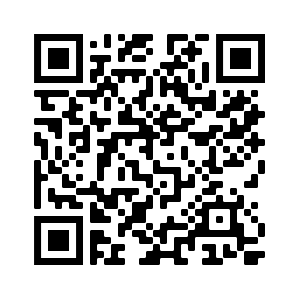
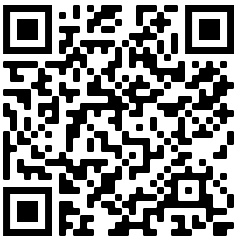
1

diff --git a/regras.html b/regras.html
@@ -8,80 +8,89 @@
     <link rel="stylesheet" href="Estilo/regras.css">
 </head>
 <body>
-    <a href="tabela.html">Voltar para a tabela</a>
-    <h1>Regras do bolão da Copa do Mundo de 2022 - Primeira fase:</h1>
-    <h2>O presente bolão apresenta as seguintes regras: </h2>
-    <ol>
-        <li>Pontuação relativa aos resultados dos jogos:
-            <ul>
-                <li> 20 pontos - Para o participante que acertar o placar exato em jogos <strong>com seis ou mais gols</strong> . Exemplo: para Itála 6 X 1 Chile, apenas o palpite Itália 6 X 1 Chile resulta em vinte pontos;
+    <header>
+        <a href="tabela.html">Voltar para a tabela</a>
+        <h1>Regras do bolão da Copa do Mundo de 2022 - Primeira fase:</h1>
+    </header>
+    <main>
+        <section>
+            <ol>
+                <li>Pontuação relativa aos resultados dos jogos:
                     <ul>
-                        <li>Exemplo de placares que a atendem esse quesito: 6 X 0 ou mais, 5 X 1 ou mais, 4 X 2 ou mais, qualquer empate igual ou superior a 3 X 3, etc.
-
+                        <li> <strong>20 pontos -</strong>  Para o participante que acertar o placar exato em jogos <strong>com seis gols ou mais</strong>. Exemplo: para Itália 6 X 1 Chile, apenas o palpite Itália 6 X 1 Chile resulta em vinte pontos;
+                            <ul>
+                                <li>Exemplo de placares que a atendem esse quesito: 6 X 0 ou mais, 5 X 1 ou mais, 4 X 2 ou mais, qualquer empate igual ou superior a 3 X 3, etc.
+        
+                                </li>
+                            </ul>
                         </li>
+        
+                        <li> <strong>10 pontos -</strong> Para o participante que acertar o placar exato, para jogos com cinco gols ou menos. Exemplo: para Itália 2 X 1 Chile, apenas o palpite Itália 2 X 1 Chile resulta em dez pontos;</li>
+                        <li> <strong>7 pontos -</strong> Para o participante que acertar o resultado do jogo e também o número de gols de apenas uma das equipes. Para Itália 2 X 1 Chile, resultados de vitória para o Itália como 3 X 1, 4 X 1, 2 X 0 darão sete pontos;</li>
+                        <li> <strong>5 pontos -</strong> Para o participante que acertar o resultado do jogo e errar o número de gols das duas equipes. Exemplo: Itália 2 X 1 Chile, resultados como 3 X 2, 3 X 0, 4 X 2 darão cinco pontos;</li>
+                        <li> <strong>2 pontos -</strong> Para o participante que acertar o número de gols de apenas uma das equipes e errar o resultado do jogo. Exemplo: Itália 2 X 1 Chile, resultados como 1 X 1, 2 X 2, 0 X 1, 2 X 3 darão dois pontos;</li>
+                        <li>  Os jogos do Brasil terão <strong>pontuação dobrada</strong>, ou seja, os cinco itens anteriores terão pontuação de 40, 20, 14, 10 e 4 pontos, respectivamente, para jogos da seleção brasileira.</li>
+                        
                     </ul>
-                </li>
-
-                <li> 10 pontos - Para o participante que acertar o placar exato, para jogos com cinco gols ou menos. Exemplo: para Itála 2 X 1 Chile, apenas o palpite Itália 2 X 1 Chile resulta em dez pontos;</li>
-                <li>  7 pontos - Para o participante que acertar o resultado do jogo e também o número de gols de apenas uma das equipes. Para Itália 2 X 1 Chile, resultados de vitória para o Itália como 3 X 1, 4 X 1, 2 X 0 darão sete pontos;</li>
-                <li>  5 pontos - para o participante que acertar o resultado do jogo e errar o número de gols das duas equipes. Exemplo: Itália 2 X 1 Chile, resultados como 3 X 2, 3 X 0, 4 X 2 darão cinco pontos;</li>
-                <li>  2 pontos - para o participante que acertar apenas o número de gols de apenas uma das equipes e errar o resultado do jogo. Exemplo: Itália 2 X 1 Chile, resultados como 1 X 1, 2 X 2, 0 X 1, 2 X 3 darão dois pontos;</li>
-                <li>   Os jogos do Brasil terão pontuação dobrada, ou seja, os cinco itens anteriores terão pontuação de 40, 20, 14, 10 e 4 pontos, respectivamente, para jogos da seleção brasileira.</li>
+                </li>   
+                <li>Pontuação relativa ao palpite dos semifinalistas - os participantes terão a seguinte pontuação, se acertarem:</li>
+                    <ul>
+                        <li>Campeão - <strong>40 pontos</strong>;</li>
+                        <li>Vice-Campeão - <strong>25 pontos</strong>;</li>
+                        <li>Terceiro colocado - <strong>15 pontos</strong>;</li>
+                        <li>Quarto colocado - <strong>10 pontos</strong>.</li>
+                    </ul>
+                </li> 
                 
-            </ul>
-        </li>   
-        <li>Pontuação relativa ao palpite dos semifinalistas - os participantes terão a seguinte pontuação, se acertarem:</li>
-            <ul>
-                <li>Campeão - 40 pontos;</li>
-                <li>Vice-Campeão - 25 pontos;</li>
-                <li>Terceiro colocado - 15 pontos;</li>
-                <li>Quarto colocado - 10 pontos.</li>
-
-            </ul>
-        </li> 
+                <li>O campeão do bolão será aquele com maior pontuação, somando os resultados dos jogos da primeira fase com a pontuação resultante dos palpites dos semifinalistas.</li>
+                <li>Critérios de desempate: Em caso de pontuação igual, o desempate dar-se-á pelos seguintes critérios nesta ordem:
+                    <ol class="romano">
+                        <li>Acerto do campeão;</li>
+                        <li>Acerto do vice-campeão;</li>
+                        <li>Acerto do terceiro colocado;</li>
+                        <li>Acerto do quarto colocado;</li>
+                        <li>maior número de placares exatos;</li>
+                        <li>maior número de resultados corretos;</li>
+                        <li>sorteio.</li>
+                    </ol>
+                </li>
+                <li>O valor de cada aposta será de <strong>R$50,00</strong>  e o pagamento poderá ser feito via pix pela chave celular (35)99982-7930 ou pelo QR code abaixo.</li>
+                <li>Doação: 20% de todo valor arrecadado será doado à instituição <a href="https://www.instagram.com/babykitpa/" target="_blank" rel="noopener noreferrer">Baby Kit</a> </li>
         
-        <li>O campeão do bolão será aquele com maior pontuação, somando os resultados dos jogos da primeira fase com a pontuação resultante dos palpites dos semifinalistas.</li>
-        <li>Critérios de desempate: Em caso de pontuação igual, o desempate dar-se-á pelos seguintes critérios nesta ordem:
-            <ol class="romano">
-                <li>Acerto do campeão;</li>
-                <li>Acerto do vice-campeão;</li>
-                <li>Acerto do terceiro colocado;</li>
-                <li>Acerto do quarto colocado;</li>
-                <li>maior número de placares exatos;</li>
-                <li>maior número de resultados corretos;</li>
-                <li>sorteio.</li>
+                <li>Premiação:
+                    <ul>
+                        <li>Campeão - 50% do valor arrecadado;</li>
+                        <li>Segundo Colocado - 20% do valor arrecadado;</li>
+                        <li>Terceiro Colocado - 10% do valor arrecadado;</li>
+        
+                    </ul>
+                <li>Prazo para envio da aposta: <strong>17/11/2022, quinta-feira.</strong> </li> 
+                <li>O Valor arrecadado e o valor da premiação serão divulgados no dia 20/11/2022.</li>
+                <li>Valerão para este bolão apenas os 48 jogos da primeira fase do mundial e os palpites de campeão, vice, terceiro e quarto colocados.
+                    Jogos das oitavas, quartas, semifinais e final não farão parte da disputa. 
+                    
+                </li>
+                
+                    
+               
+        
             </ol>
-        </li>
-        <li>O valor de cada aposta será de <strong>R$50,00</strong>  e o pagamento deverá ser feito via pix pela chave celular (35)99982-7930 ou pelo QR code abaixo.</li>
-        <li>Doação: 20% de todo valor arrecadado será doado à instituição <a href="https://www.instagram.com/babykitpa/" target="_blank" rel="noopener noreferrer">Baby Kit</a> </li>
+        </section>
+    </main>
+    <footer>
+        <div class="QR-code">
+            <caption>Pix R$50,00</caption>
+            <img src="Auxiliar/QR CodePix.png" alt="QR Code do pagamento do Pix">
 
-        <li>Premiação:
-            <ul>
-                <li>Campeão - 50% do valor arrecadado;</li>
-                <li>Segundo Colocado - 20% do valor arrecadado;</li>
-                <li>Terceiro Colocado - 10% do valor arrecadado;</li>
-
-            </ul>
-        <li>Prazo para envio da aposta: <strong>17/11/2022, quinta-feira.</strong> </li> 
-        <li>O Valor arrecadado e o valor da premiação serão divulgados no dia 20/11/2022.</li>
-        <li>Valerão para este bolão apenas os 48 jogos da primeira fase do mundial e os palpites de campeão, vice, terceiro e quarto colocados.
-            Jogos das oitavas, quartas, semifinais e final não farão parte da disputa. 
-            
-        </li>
+        </div>
         
-            <img src="Auxiliar/QR_Code_Pix.png" alt="QR Code do pagamento do Pix">
-            
-        
+        <div class="QR-code">
+            <caption>Participe do Bolão</caption>
+            <img src="Auxiliar/QR CodeBolão.png" alt="QR Code para participar do bolão">
+        </div>
 
-
-
-
-
-
-
-
-
-
-    </ol>
+    </footer>
+    
+    
 </body>
 </html>

diff --git a/tabela.html b/tabela.html
@@ -20,7 +20,7 @@
             <p  class="dados-pessoais"><label for="cidade">Informe sua cidade: </label> <input type="text" name="cidade" id="cidade" class="texto" Placeholder="Digite sua cidade aqui"> </p>
             <p  class="dados-pessoais">
                 <label>Informe seu celular:  <input type="tel" name="celular" id="celular" class="texto" Placeholder="(XX) XXXXX - XXXX" required maxlength="17"></label>
-                <input type="button" value="Apagar celular" id="btn-apagar-celular" class="invisivel">
+                
             </p>
             <p  class="dados-pessoais"><label for="email">Infome seu e-mail: </label> <input type="email" name="e-mail" class="texto" id="email" placeholder="Digite seu e-mail aqui"></p>
             <p  class="dados-pessoais"> 
@@ -30,7 +30,7 @@
             </p>
             <p  class="dados-pessoais"> 
                 <input type="checkbox" name="concordo-regras" id="concordo" required>
-                <label for="concordo">Li e concordo com as regras do bolão </label>
+                <label for="concordo">Li e concordo com as regras do bolão </label><br>
                 <a href="regras.html">Clique aqui para ler as regras do bolão</a>
             </p>
             <p class="dados-pessoais">Selecione o <strong>campeão</strong>  da Copa do Mundo de 2022:

diff --git a/Estilo/regras.css b/Estilo/regras.css
@@ -1,9 +1,13 @@
 body{
     font-family: Helvetica, Arial, sans-serif;
     margin: auto;
-    max-width: 940px;
-    width: 90%;
+    max-width: 900px;
+    width: 96%;
 
+}
+h1{
+    font-size: 20px;
+    text-decoration: underline;
 }
 li{
     margin: 15px 0px;
@@ -17,4 +21,18 @@ li{
 strong{
     text-decoration: underline;
     
+}
+footer{
+    display: flex;
+    flex-flow: row wrap;
+    justify-content: space-around;
+}
+caption{
+    font-size: 5px;
+}
+.QR-code > img, .QR-code{
+    font-size: 12px;
+    text-align: center;
+    width: 120px;
+    height: 120px;    
 }

diff --git a/Estilo/estilo.css b/Estilo/estilo.css
@@ -13,7 +13,7 @@ body{
     font-family: Helvetica, Arial, sans-serif;
     border-color: white;
     margin: auto;
-    max-width: 1150px;
+    max-width: 940px;
     background: linear-gradient(to right, var(--cor-primaria), black);
     min-width: 320px;
 }
